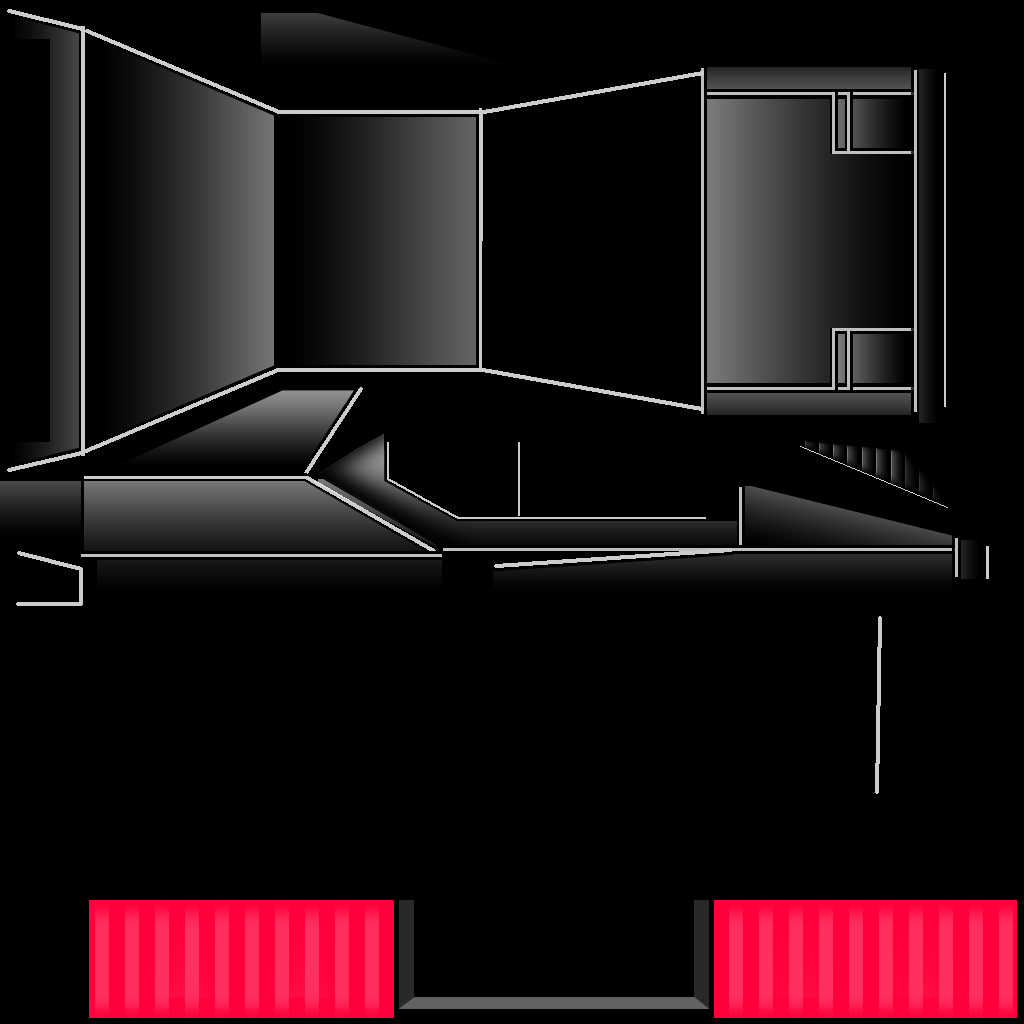
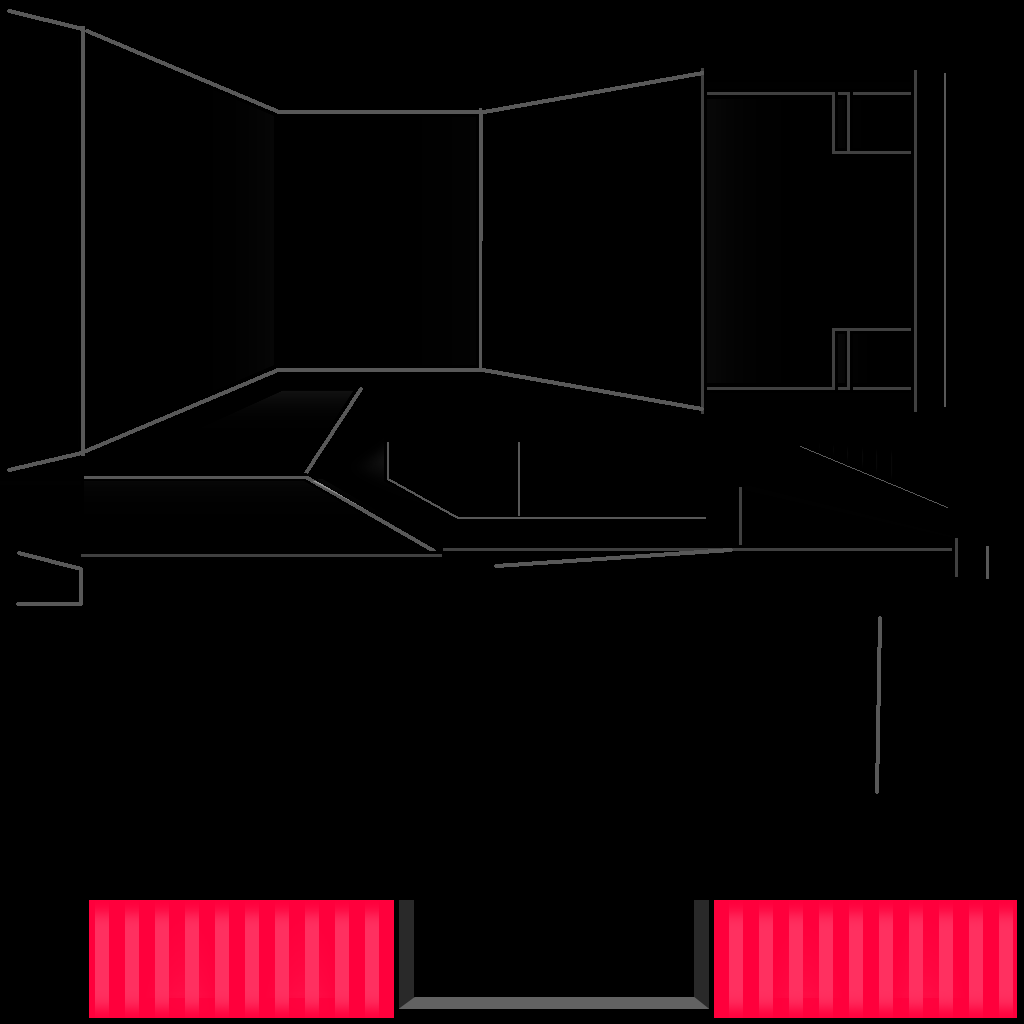
Finished dynamic reflections, cleaned up some spaghetti

diff --git a/vaporous/Renderer.cpp b/vaporous/Renderer.cpp
@@ -29,14 +29,14 @@ void Renderer::init() {
 	glGenTextures(1, &_colorBuffer);
 	glGenRenderbuffers(1, &_depthBuffer);
 	buildFramebuffers();
+	buildCubemapFramebuffer();
 
-	// create buffers for debug drawing
+	// create vaos for different types of drawing
 	createPointBuffer();
 	createLineBuffer();
 	createCircleBuffer();
 	createScreenBuffer();
-
-	initReflections();
+	createSkyboxBuffer();
 
 	// subscribe to window resize events
 	_context->eventMgr->subscribe(EventType::WindowResize, this);
@@ -50,26 +50,20 @@ Camera* Renderer::getCamera() {
 	return _activeCamera;
 }
 
+GLsizei Renderer::getCubemapSize() {
+	return _cubeMapSize;
+}
+
 void Renderer::beginDraw() {
 	// switch to framebuffer
 	_context->gl->bindFBO(_fbo);
 	glClearColor(0.0f, 0.0f, 0.0f, 1.0f);
 	glClear(GL_COLOR_BUFFER_BIT | GL_DEPTH_BUFFER_BIT);
 
-	// draw sky
-	_context->gl->setLineMode(false);
-	_context->gl->useShader(_skyShader->id);
-	_context->gl->bindVAO(_screenVao);
-
-	_skyShader->setFloat("hueShift", glfwGetTime() * 0.01f);
-	_skyShader->setMat4("iview", glm::inverse(
-		_activeCamera->getViewMatrix()));
-	_skyShader->setMat4("iprojection", glm::inverse(
-		_activeCamera->getProjectionMatrix()));
-
-	glDepthMask(GL_FALSE);
-	glDrawArrays(GL_TRIANGLES, 0, 6);
-	glDepthMask(GL_TRUE);
+	// set viewport size to window size
+	_context->gl->setViewportSize(
+		static_cast<GLsizei>(_context->window->getSize().x),
+		static_cast<GLsizei>(_context->window->getSize().y));
 }
 
 void Renderer::endDraw(float fade) {
@@ -89,31 +83,18 @@ void Renderer::endDraw(float fade) {
 	_screenShader->setFloat("fade", fade);
 
 	glDrawArrays(GL_TRIANGLES, 0, 6);
-
-	//_context->gl->bindFBO(0);
-	//glClearColor(0.0f, 0.0f, 0.0f, 1.0f);
-	//glClear(GL_COLOR_BUFFER_BIT | GL_DEPTH_BUFFER_BIT);
-
-	//_context->gl->setLineMode(false);
-	//_context->gl->bindCubemap4(_cube);
-	//_context->gl->useShader(_skyboxShader->id);
-	//_context->gl->bindVAO(_skyboxVao);
-
-	//_skyboxShader->setMat4("view", glm::mat4(
-	//	glm::mat3(_activeCamera->getViewMatrix())));
-	//_skyboxShader->setMat4("projection", _activeCamera->getProjectionMatrix());
-	//_skyboxShader->setInt("cubemap", 4);
-
-	//glDepthMask(GL_FALSE);
-	//glDrawArrays(GL_TRIANGLES, 0, 36);
-	//glDepthMask(GL_TRUE);
 }
 
-void Renderer::beginCubemapDraw(GLuint faceIndex) {
+void Renderer::bindCubemapFace(GLuint faceIndex) {
+	// bind cubemap framebuffer and use specified face as color attachment
 	_context->gl->bindFBO(_cubeFbo);
 	glFramebufferTexture2D(GL_FRAMEBUFFER, GL_COLOR_ATTACHMENT0,
 		GL_TEXTURE_CUBE_MAP_POSITIVE_X + faceIndex, _cube, 0);
 
+	// set viewport to cubemap size
+	_context->gl->setViewportSize(_cubeMapSize, _cubeMapSize);
+
+	// clear buffer
 	glClearColor(0.0f, 0.0f, 0.0f, 1.0f);
 	glClear(GL_COLOR_BUFFER_BIT | GL_DEPTH_BUFFER_BIT);
 }
@@ -219,6 +200,7 @@ void Renderer::drawMesh(Mesh& mesh, mat4 tform, Shader* shader,
 	_context->gl->useShader(shader->id);
 	_context->gl->bindVAO(mesh._vao);
 	_context->gl->setLineMode(false);
+	_context->gl->bindCubemap4(_cube);
 
 	shader->setMat4("model", tform);
 	shader->setMat4("view", _activeCamera->getViewMatrix());
@@ -227,8 +209,6 @@ void Renderer::drawMesh(Mesh& mesh, mat4 tform, Shader* shader,
 	shader->setFloat("alpha", alpha);
 	shader->setInt("mainTex", 0);
 	shader->setInt("reflectiveMap", 1);
-
-	_context->gl->bindCubemap4(_cube);
 	shader->setInt("cubeMap", 4);
 
 	glDrawElements(GL_TRIANGLES, mesh.indices.size(), GL_UNSIGNED_INT, 0);
@@ -351,51 +331,7 @@ void Renderer::createScreenBuffer() {
 		4 * sizeof(GLfloat), (GLvoid*)0);
 }
 
-void Renderer::handleEvent(EventType type, EventData data) {
-	switch (type) {
-	case EventType::WindowResize:
-		buildFramebuffers();
-		break;
-	}
-}
-
-void Renderer::initReflections() {
-	// create empty cubemap
-	glGenTextures(1, &_cube);
-	glBindTexture(GL_TEXTURE_CUBE_MAP, _cube);
-	glTexParameteri(GL_TEXTURE_CUBE_MAP, GL_TEXTURE_MIN_FILTER, GL_LINEAR);
-	glTexParameteri(GL_TEXTURE_CUBE_MAP, GL_TEXTURE_MAG_FILTER, GL_LINEAR);
-	glTexParameteri(GL_TEXTURE_CUBE_MAP, GL_TEXTURE_WRAP_S, GL_CLAMP_TO_EDGE);
-	glTexParameteri(GL_TEXTURE_CUBE_MAP, GL_TEXTURE_WRAP_T, GL_CLAMP_TO_EDGE);
-	glTexParameteri(GL_TEXTURE_CUBE_MAP, GL_TEXTURE_WRAP_R, GL_CLAMP_TO_EDGE);
-
-	for (GLuint i = 0; i < 6; ++i) {
-		glTexImage2D(GL_TEXTURE_CUBE_MAP_POSITIVE_X + i, 0, GL_RGBA, 
-			_cubeMapSize, _cubeMapSize, 0, GL_RGBA, GL_UNSIGNED_BYTE, NULL);
-	}
-	glBindTexture(GL_TEXTURE_CUBE_MAP, 0);
-
-	// create framebuffer for rendering to the cubemap
-	glGenFramebuffers(1, &_cubeFbo);
-	glBindFramebuffer(GL_FRAMEBUFFER, _cubeFbo);
-
-	// create depth buffer
-	glGenRenderbuffers(1, &_cubeDepthBuffer);
-	glBindRenderbuffer(GL_RENDERBUFFER, _cubeDepthBuffer);
-	glRenderbufferStorage(GL_RENDERBUFFER, GL_DEPTH24_STENCIL8, _cubeMapSize, _cubeMapSize);
-
-	// complete framebuffer
-	glFramebufferRenderbuffer(GL_FRAMEBUFFER, GL_DEPTH_STENCIL_ATTACHMENT,
-		GL_RENDERBUFFER, _cubeDepthBuffer);
-	glFramebufferTexture2D(GL_FRAMEBUFFER, GL_COLOR_ATTACHMENT0,
-		GL_TEXTURE_CUBE_MAP_POSITIVE_X, _cube, 0);
-
-	if (glCheckFramebufferStatus(GL_FRAMEBUFFER) != GL_FRAMEBUFFER_COMPLETE) {
-		std::cout << "Error: cubemap framebuffer is incomplete" << std::endl;
-	}
-	glBindFramebuffer(GL_FRAMEBUFFER, 0);
-
-	// create VAO for drawing a skybox
+void Renderer::createSkyboxBuffer() {
 	float skyboxVertices[] = {
 		-1.0f,  1.0f, -1.0f,
 		-1.0f, -1.0f, -1.0f,
@@ -451,4 +387,49 @@ void Renderer::initReflections() {
 	glEnableVertexAttribArray(0);
 	glVertexAttribPointer(0, 3, GL_FLOAT, GL_FALSE,
 		3 * sizeof(GLfloat), (GLvoid*)0);
+}
+
+void Renderer::buildCubemapFramebuffer() {
+	// create empty cubemap
+	glGenTextures(1, &_cube);
+	glBindTexture(GL_TEXTURE_CUBE_MAP, _cube);
+	glTexParameteri(GL_TEXTURE_CUBE_MAP, GL_TEXTURE_MIN_FILTER, GL_LINEAR);
+	glTexParameteri(GL_TEXTURE_CUBE_MAP, GL_TEXTURE_MAG_FILTER, GL_LINEAR);
+	glTexParameteri(GL_TEXTURE_CUBE_MAP, GL_TEXTURE_WRAP_S, GL_CLAMP_TO_EDGE);
+	glTexParameteri(GL_TEXTURE_CUBE_MAP, GL_TEXTURE_WRAP_T, GL_CLAMP_TO_EDGE);
+	glTexParameteri(GL_TEXTURE_CUBE_MAP, GL_TEXTURE_WRAP_R, GL_CLAMP_TO_EDGE);
+
+	for (GLuint i = 0; i < 6; ++i) {
+		glTexImage2D(GL_TEXTURE_CUBE_MAP_POSITIVE_X + i, 0, GL_RGBA,
+			_cubeMapSize, _cubeMapSize, 0, GL_RGBA, GL_UNSIGNED_BYTE, NULL);
+	}
+	glBindTexture(GL_TEXTURE_CUBE_MAP, 0);
+
+	// create framebuffer for rendering to the cubemap
+	glGenFramebuffers(1, &_cubeFbo);
+	glBindFramebuffer(GL_FRAMEBUFFER, _cubeFbo);
+
+	// create depth buffer
+	glGenRenderbuffers(1, &_cubeDepthBuffer);
+	glBindRenderbuffer(GL_RENDERBUFFER, _cubeDepthBuffer);
+	glRenderbufferStorage(GL_RENDERBUFFER, GL_DEPTH24_STENCIL8, _cubeMapSize, _cubeMapSize);
+
+	// complete framebuffer
+	glFramebufferRenderbuffer(GL_FRAMEBUFFER, GL_DEPTH_STENCIL_ATTACHMENT,
+		GL_RENDERBUFFER, _cubeDepthBuffer);
+	glFramebufferTexture2D(GL_FRAMEBUFFER, GL_COLOR_ATTACHMENT0,
+		GL_TEXTURE_CUBE_MAP_POSITIVE_X, _cube, 0);
+
+	if (glCheckFramebufferStatus(GL_FRAMEBUFFER) != GL_FRAMEBUFFER_COMPLETE) {
+		std::cout << "Error: cubemap framebuffer is incomplete" << std::endl;
+	}
+	glBindFramebuffer(GL_FRAMEBUFFER, 0);
+}
+
+void Renderer::handleEvent(EventType type, EventData data) {
+	switch (type) {
+	case EventType::WindowResize:
+		buildFramebuffers();
+		break;
+	}
 }

diff --git a/vaporous/Demo.cpp b/vaporous/Demo.cpp
@@ -57,6 +57,8 @@ Demo::Demo() :
 	// initialize entities
 	_mainCam.setScreenSize(_window->getSize());
 	_mainCam.setFOV(75.0f);
+	_reflectionCam.setScreenSize(vec2(_renderer.getCubemapSize()));
+	_reflectionCam.setFOV(90.0f);
 	getNextCameraMovement();
 	getNextRoadSettings();
 	_car.init();
@@ -167,26 +169,24 @@ void Demo::setState(State state) {
 void Demo::draw() {
 	_window->beginDraw();
 
-	cubeCam.setFOV(90.0f);
-	cubeCam.setPosition(_car.getPosition() + vec3(0, 0.5f, 0));
-	cubeCam.setScreenSize(vec2(256, 256));
-	glViewport(0, 0, 256, 256);
+	// draw scene to cubemap for dynamic reflections
+	_reflectionCam.setPosition(_car.getPosition() + vec3(0, 0.5f, 0));
 	Camera* prevCam = _renderer.getCamera();
-	_renderer.setCamera(&cubeCam);
-	// reflection probe
+	_renderer.setCamera(&_reflectionCam);
 	for (GLuint i = 0; i < 6; ++i) {
-		cubeCam.setFaceIndex(i);
-		_renderer.beginCubemapDraw(i);
+		_reflectionCam.setFaceIndex(i);
+		_renderer.bindCubemapFace(i);
 		_renderer.drawSky();
 		_city.draw();
 		_resourceMgr.bindTexture(Textures::Rainbow);
 		_road.draw();
 	}
-	//
-	glViewport(0, 0, _window->getSize().x, _window->getSize().y);
 	_renderer.setCamera(prevCam);
+
+	// draw scene
 	_renderer.beginDraw();
 
+	_renderer.drawSky();
 	_city.draw();
 	_resourceMgr.bindTexture(Textures::CarDiffuse);
 	_resourceMgr.bindTexture(Textures::CarReflective, 1);

diff --git a/vaporous/Renderer.h b/vaporous/Renderer.h
@@ -21,6 +21,7 @@ public:
 	void init();
 	void setCamera(Camera* camera);
 	Camera* getCamera();
+	GLsizei getCubemapSize();
 	virtual void handleEvent(EventType type, EventData data) override;
 
 	void beginDraw();
@@ -32,16 +33,16 @@ public:
 		float alpha = 1.0f) const;
 	void drawAxis(Transformable* tform, float size = 1.0f);
 	void drawSky();
-	void beginCubemapDraw(GLuint faceIndex);
+	void bindCubemapFace(GLuint faceIndex);
 
 private:
 	void createPointBuffer();
 	void createLineBuffer();
 	void createCircleBuffer();
 	void createScreenBuffer();
+	void createSkyboxBuffer();
 	void buildFramebuffers();
-
-	void initReflections();
+	void buildCubemapFramebuffer();
 
 	Context* _context;
 	Camera* _activeCamera;
@@ -52,7 +53,7 @@ private:
 
 	GLuint _fbo, _colorBuffer, _depthBuffer;
 	GLuint _cube, _cubeFbo, _cubeDepthBuffer;
-	GLsizei _cubeMapSize = 256;
+	GLsizei _cubeMapSize = 512;
 
 	GLuint _pointVbo, _pointVao;
 	GLuint _lineVbo, _lineVao;

diff --git a/vaporous/GL.h b/vaporous/GL.h
@@ -13,6 +13,7 @@ public:
 	void bindVAO(GLuint id);
 	void bindFBO(GLuint id);
 	void setLineMode(bool lineMode);
+	void setViewportSize(GLsizei width, GLsizei height);
 
 	GLuint getShader();
 	GLuint getTexture0();
@@ -29,4 +30,6 @@ private:
 	GLuint _vao;
 	GLuint _fbo;
 	bool _isLineMode;
+	GLsizei _viewportWidth;
+	GLsizei _viewportHeight;
 };

diff --git a/vaporous/GL.cpp b/vaporous/GL.cpp
@@ -77,3 +77,11 @@ void GL::setLineMode(bool lineMode) {
 		lineMode ? GL_LINE : GL_FILL);
 	_isLineMode = lineMode;
 }
+
+void GL::setViewportSize(GLsizei width, GLsizei height) {
+	if (width == _viewportWidth && height == _viewportHeight) return;
+
+	glViewport(0, 0, width, height);
+	_viewportWidth = width;
+	_viewportHeight = height;
+}

diff --git a/vaporous/Demo.h b/vaporous/Demo.h
@@ -88,7 +88,7 @@ private:
 
 	// rendering
 	float _fade = 1.0f;
-	ReflectionCamera cubeCam;
+	ReflectionCamera _reflectionCam;
 
 	// debug
 	void toggleDebugMode();
